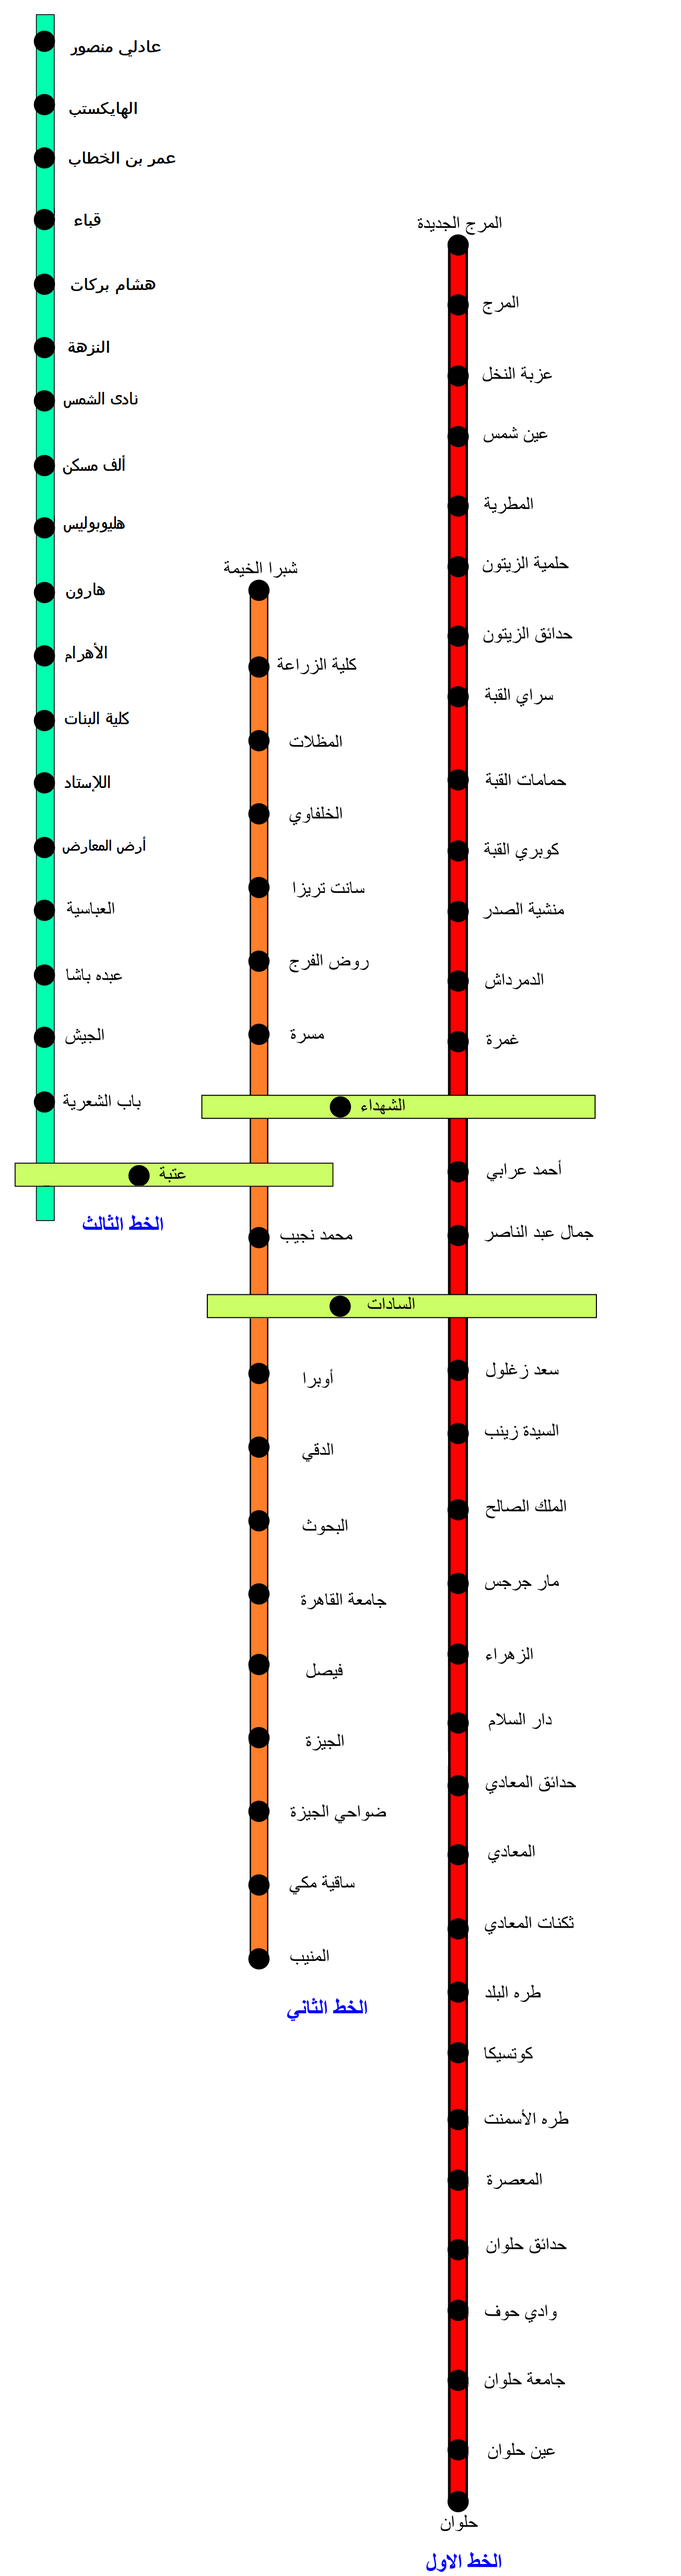
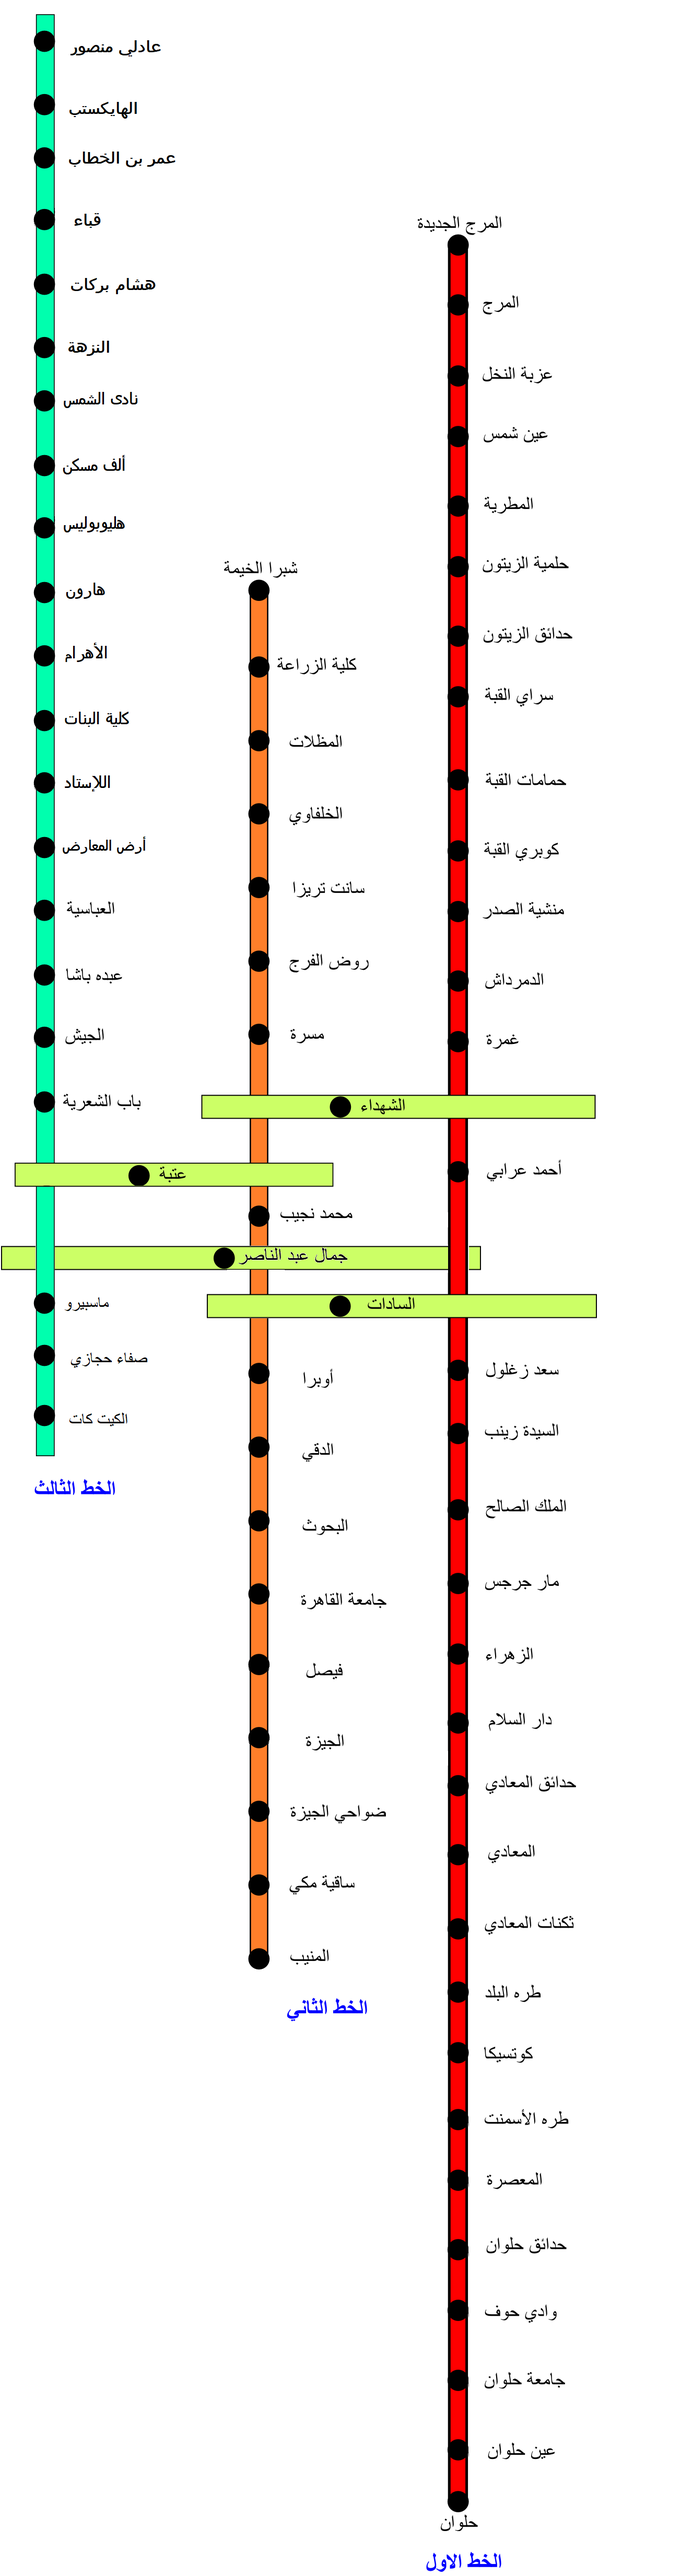
Add new stations

Changed region(s): [[0.0, 0.4686, 0.7055, 0.5935]]

diff --git a/_Imports.cs b/_Imports.cs
@@ -9,8 +9,10 @@ public static class Loaders
     public static Span<Station> Map => new Station[]
     {
         new(19, "Sadat", Line.Line2, "top:50.47%; left:49.04%;",true),
-        new(21, "Ataba", Line.Line2, "top:45.40%; left:19.50%;",true),
+        new(21, "Ataba", Line.Line3, "top:45.40%; left:19.50%;",true),
         new(22, "Al-Shohadaa", Line.Line2, "top:42.73%; left:49.04%;",true),
+        new(20, "Nasser", Line.Line1, "top:48.6%; left:31.9%;",true),
+
        // new(19, "Sadat", Line.Line1, "top:50.47%; left:49.04%;",true),
         //new(21, "Ataba", Line.Line2, "top:45.40%; left:19.50%;",true),
         //new(22, "Al-Shohadaa", Line.Line1, "top:42.73%; left:49.04%;",true),         
@@ -34,7 +36,6 @@ public static class Loaders
         new(16, "El-Malek El-Saleh", Line.Line1, "top:58.35%; left:66.33%;"),
         new(17, "Al-Sayeda Zeinab", Line.Line1, "top:55.39%; left:66.33%;"),
         new(18, "Saad Zaghloul", Line.Line1, "top:52.94%; left:66.33%;"),
-        new(20, "Nasser", Line.Line1, "top:47.69%; left:66.33%;"),
         new(21, "Orabi", Line.Line1, "top:45.22%; left:66.33%;"),
         new(23, "Ghamra", Line.Line1, "top:40.19%; left:66.33%;"),
         new(24, "El-Demerdash", Line.Line1, "top:37.84%; left:66.33%;"),
@@ -60,7 +61,7 @@ public static class Loaders
         new(16, "El Bohoth", Line.Line2, "top:58.78%; left:37.13%;"),
         new(17, "Dokki", Line.Line2, "top:55.93%; left:37.13%;"),
         new(18, "Opera", Line.Line2, "top:53.06%; left:37.13%;"),
-        new(20, "Mohamed Naguib", Line.Line2, "top:47.81%; left:37.13%;"),
+        new(20, "Mohamed Naguib", Line.Line2, "top:46.97%; left:37.13%;"),
         new(23, "Masarra", Line.Line2, "top:39.91%; left:37.13%;"),
         new(24, "Rod El-Farag", Line.Line2, "top:37.07%; left:37.13%;"),
         new(25, "St. Teresa", Line.Line2, "top:34.22%; left:37.13%;"),
@@ -70,24 +71,29 @@ public static class Loaders
         new(29, "Shubra El-Kheima", Line.Line2, "top:22.67%; left:37.13%;"),
         //Line TWO Complete
                
-        new(3, "Adly Mansour", Line.Line3, "top:01.35%; left:05.57%;"),
-        new(4, "Hikestep", Line.Line3, "top:03.81%; left:05.57%;"),
-        new(5, "Omar ibn Al-khattab", Line.Line3, "top:05.88%; left:05.57%;"),
-        new(6, "Kebaa", Line.Line3, "top:08.28%; left:05.57%;"),
-        new(7, "Hisham Barakat", Line.Line3, "top:10.79%; left:05.57%;"),
-        new(8, "El-Nozha", Line.Line3, "top:13.25%; left:05.57%;"),
-        new(9, "El-Shams Club", Line.Line3, "top:15.32%; left:05.57%;"),
-        new(10, "Alf Masken", Line.Line3, "top:17.83%; left:05.57%;"),
-        new(11, "Heliopolis Square", Line.Line3, "top:20.25%; left:05.57%;"),
-        new(12, "Haroun", Line.Line3, "top:22.76%; left:05.57%;"),
-        new(13, "Al-Ahram", Line.Line3, "top:25.21%; left:05.57%;"),
-        new(14, "Koleyet El Banat", Line.Line3, "top:27.72%; left:05.57%;"),
-        new(15, "Cairo Stadium", Line.Line3, "top:30.14%; left:05.57%;"),
-        new(16, "Fair Zone", Line.Line3, "top:32.65%; left:05.57%;"),
-        new(17, "Abbassia", Line.Line3, "top:35.09%; left:05.57%;"),
-        new(18, "Abdou Pasha", Line.Line3, "top:37.60%; left:05.57%;"),
-        new(19, "El Geish", Line.Line3, "top:40.02%; left:05.57%;"),
-        new(20, "Bab El Shaaria", Line.Line3, "top:42.53%; left:05.57%;"),
+        new(39, "Adly Mansour", Line.Line3, "top:01.35%; left:05.57%;"),
+        new(38, "Hikestep", Line.Line3, "top:03.81%; left:05.57%;"),
+        new(37, "Omar ibn Al-khattab", Line.Line3, "top:05.88%; left:05.57%;"),
+        new(36, "Kebaa", Line.Line3, "top:08.28%; left:05.57%;"),
+        new(35, "Hisham Barakat", Line.Line3, "top:10.79%; left:05.57%;"),
+        new(34, "El-Nozha", Line.Line3, "top:13.25%; left:05.57%;"),
+        new(33, "El-Shams Club", Line.Line3, "top:15.32%; left:05.57%;"),
+        new(32, "Alf Masken", Line.Line3, "top:17.83%; left:05.57%;"),
+        new(31, "Heliopolis Square", Line.Line3, "top:20.25%; left:05.57%;"),
+        new(30, "Haroun", Line.Line3, "top:22.76%; left:05.57%;"),
+        new(29, "Al-Ahram", Line.Line3, "top:25.21%; left:05.57%;"),
+        new(28, "Koleyet El Banat", Line.Line3, "top:27.72%; left:05.57%;"),
+        new(27, "Cairo Stadium", Line.Line3, "top:30.14%; left:05.57%;"),
+        new(26, "Fair Zone", Line.Line3, "top:32.65%; left:05.57%;"),
+        new(25, "Abbassia", Line.Line3, "top:35.09%; left:05.57%;"),
+        new(24, "Abdou Pasha", Line.Line3, "top:37.60%; left:05.57%;"),
+        new(23, "El Geish", Line.Line3, "top:40.02%; left:05.57%;"),
+        new(22, "Bab El Shaaria", Line.Line3, "top:42.53%; left:05.57%;"),
+
+        new(19, "Bab El Shaaria", Line.Line3, "top:50.33%; left:05.57%;"),
+        new(18, "Bab El Shaaria", Line.Line3, "top:52.35%; left:05.57%;"),
+        new(17, "Bab El Shaaria", Line.Line3, "top:54.72%; left:05.57%;"),
+
         //Line THREE Complete
     };
 }
